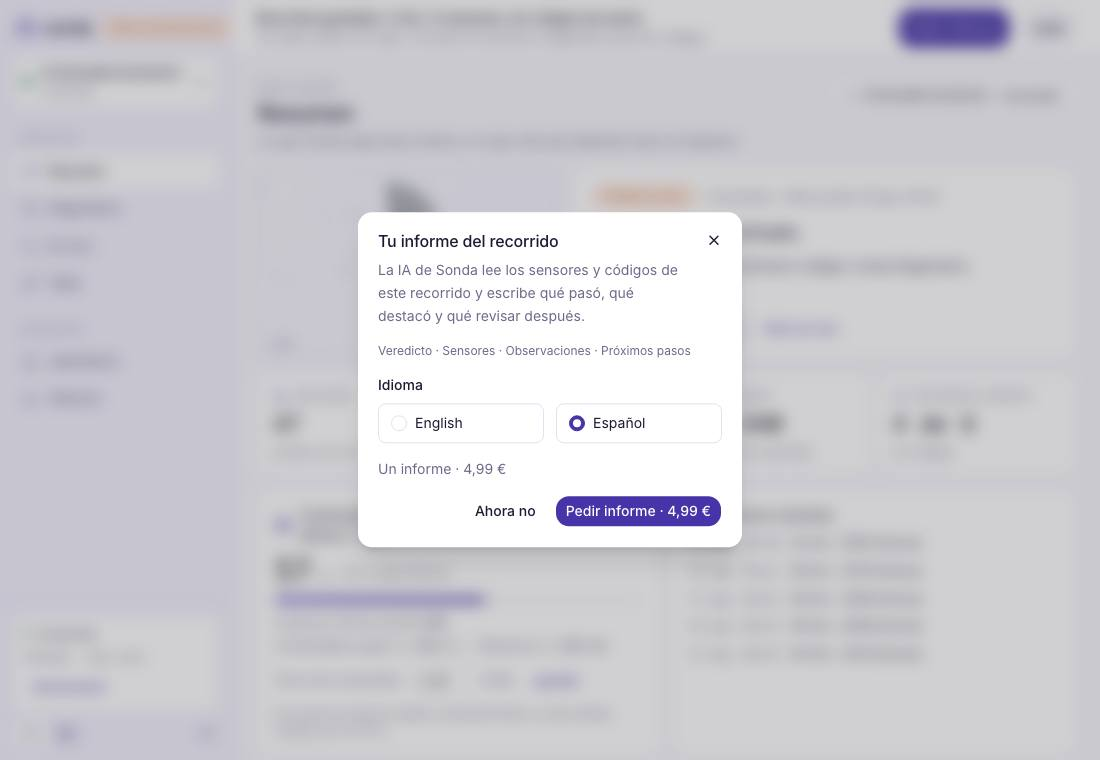
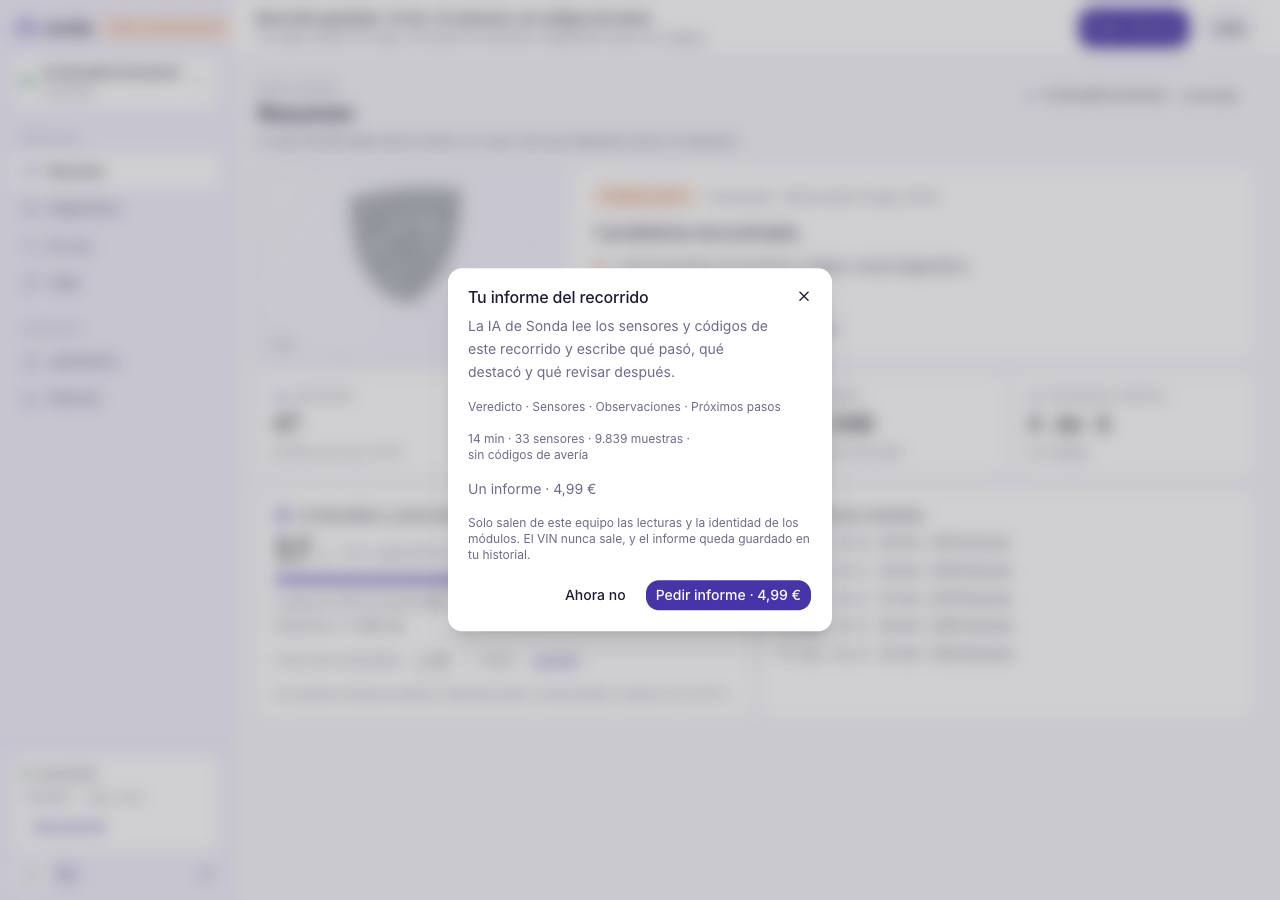
feat(desktop): report dialog follows the app language and shows what the report covers
Claude-Session: https://claude.ai/code/session_01HMcYpPkUbw46LDx5AgYEb3

diff --git a/apps/desktop/src/components/ReportAction.tsx b/apps/desktop/src/components/ReportAction.tsx
@@ -1,19 +1,20 @@
-import { useEffect, useRef, useState } from "react";
+import { Fragment, useEffect, useRef, useState } from "react";
 import { useQueryClient } from "@tanstack/react-query";
 import { openUrl } from "@tauri-apps/plugin-opener";
 import type { GenerateReportInput, ReportRow } from "@scainner/core";
 import { Button } from "@/components/ui/button";
 import { Dialog, DialogContent, DialogDescription, DialogHeader, DialogTitle } from "@/components/ui/dialog";
-import { RadioGroup, RadioGroupItem } from "@/components/ui/radio-group";
 import { useSession } from "@/features/account/useSession";
 import { billingRun, usePricing } from "@/features/reports/queries";
-import { useLocale, useT, type Locale } from "@/i18n";
-import { formatPrice, reportButtonState, reportOfferKeys } from "@/lib/reports";
+import { useLocale, useT } from "@/i18n";
+import { formatPrice, reportButtonState, reportFactsParts, reportOfferKeys } from "@/lib/reports";
 import { MOCK_MODE } from "@/lib/tauri";
 import { toast } from "@/components/toast";
 import { ReportView } from "@/views/reports/ReportView";
 
-type ReportSubject = { kind: "ride"; ride_id: string } | { kind: "code"; scan_event_id?: string; dtc_code: string };
+type ReportSubject =
+  | { kind: "ride"; ride_id: string; minutes: number; sensor_count: number; sample_count: number; dtc_codes_appeared: number }
+  | { kind: "code"; scan_event_id?: string; dtc_code: string };
 
 export function ReportAction({ input }: { input: ReportSubject }) {
   const { locale } = useLocale();
@@ -24,12 +25,10 @@ export function ReportAction({ input }: { input: ReportSubject }) {
   const previewSignedOut = MOCK_MODE && new URLSearchParams(window.location.search).get("report-state") === "signed-out";
   const signedIn = !previewSignedOut && typeof session === "string";
   const [open, setOpen] = useState(false);
-  const [language, setLanguage] = useState<Locale>(locale);
   const [waiting, setWaiting] = useState(false);
   const [generating, setGenerating] = useState(false);
   const [phase, setPhase] = useState(0);
   const [report, setReport] = useState<ReportRow | null>(null);
-  const targetLocale = useRef<Locale>(locale);
   const startingEntitlement = useRef(0);
   const pricing = usePricing(waiting ? 1000 : false);
   const balance = pricing.data?.account?.balance ?? 0;
@@ -38,10 +37,9 @@ export function ReportAction({ input }: { input: ReportSubject }) {
   const entitlement = balance + offer.planLeft;
   const state = reportButtonState({ signedIn, balance: entitlement, waiting, generating, done: report != null });
   const price = formatPrice(pricing.data?.catalog.single, locale);
-
-  useEffect(() => {
-    if (!open) setLanguage(locale);
-  }, [locale, open]);
+  const facts = input.kind === "ride"
+    ? reportFactsParts({ kind: "ride", minutes: input.minutes, sensors: input.sensor_count, samples: input.sample_count, codes: input.dtc_codes_appeared }, locale)
+    : reportFactsParts({ kind: "code", code: input.dtc_code, module: t.diagnose.confirmClear.module }, locale);
 
   useEffect(() => {
     if (!generating) return;
@@ -54,15 +52,18 @@ export function ReportAction({ input }: { input: ReportSubject }) {
       setWaiting(false);
       setOpen(false);
       toast.success(copy.bought);
-      void generate(targetLocale.current);
+      void generate();
     }
   }, [copy.bought, entitlement, waiting]);
 
-  const generate = async (reportLocale: Locale) => {
+  const generate = async () => {
     setGenerating(true);
     setPhase(0);
     try {
-      const result = await billingRun((billing) => billing.generateReport({ ...input, locale: reportLocale } as GenerateReportInput));
+      const subject: GenerateReportInput = input.kind === "ride"
+        ? { kind: "ride", ride_id: input.ride_id, locale }
+        : { kind: "code", scan_event_id: input.scan_event_id, dtc_code: input.dtc_code, locale };
+      const result = await billingRun((billing) => billing.generateReport(subject));
       const row = await billingRun((billing) => billing.getReport(result.report_id));
       setReport(row);
       toast.success(copy.complete);
@@ -76,7 +77,6 @@ export function ReportAction({ input }: { input: ReportSubject }) {
   };
 
   const confirm = async () => {
-    targetLocale.current = language;
     if (!signedIn) {
       setOpen(false);
       toast.info(copy.signInToast);
@@ -84,7 +84,7 @@ export function ReportAction({ input }: { input: ReportSubject }) {
     }
     if (entitlement > 0) {
       setOpen(false);
-      await generate(language);
+      await generate();
       return;
     }
     try {
@@ -119,21 +119,23 @@ export function ReportAction({ input }: { input: ReportSubject }) {
             <DialogDescription>{input.kind === "ride" ? copy.rideDescription : copy.codeDescription}</DialogDescription>
           </DialogHeader>
           <p className="text-xs text-muted-foreground">{copy.structure}</p>
-          <fieldset className="space-y-2" disabled={waiting}>
-            <legend className="text-sm font-medium">{copy.language}</legend>
-            <RadioGroup value={language} onValueChange={(value) => setLanguage(value as Locale)} className="grid grid-cols-2 gap-3">
-              <label className="flex min-h-10 cursor-pointer items-center gap-2 rounded-md border border-input px-3 text-sm"><RadioGroupItem value="en" />{copy.english}</label>
-              <label className="flex min-h-10 cursor-pointer items-center gap-2 rounded-md border border-input px-3 text-sm"><RadioGroupItem value="es" />{copy.spanish}</label>
-            </RadioGroup>
-          </fieldset>
+          <p className="text-xs text-muted-foreground">
+            {facts.map((part, index) => (
+              <Fragment key={part}>
+                {index > 0 && <>&nbsp;· </>}
+                <span className="whitespace-nowrap">{part}</span>
+              </Fragment>
+            ))}
+          </p>
           <p className="text-sm text-muted-foreground" aria-live="polite">{waiting ? copy.waiting : costLine}</p>
+          <p className="text-xs text-muted-foreground">{copy.privacy}</p>
           <div className="flex flex-col-reverse gap-2 sm:flex-row sm:justify-end">
             <Button variant="ghost" disabled={waiting} onClick={() => setOpen(false)}>{copy.notNow}</Button>
             <Button disabled={waiting || pricing.isPending} aria-busy={waiting || undefined} onClick={() => void confirm()}>{primaryLabel}</Button>
           </div>
         </DialogContent>
       </Dialog>
-      {report && <ReportView report={report} onClose={() => setReport(null)} onRegenerate={() => { setReport(null); setLanguage(report.locale === "en" ? "es" : "en"); setOpen(true); }} />}
+      {report && <ReportView report={report} onClose={() => setReport(null)} />}
     </>
   );
 }

diff --git a/apps/desktop/src/views/reports/ReportView.tsx b/apps/desktop/src/views/reports/ReportView.tsx
@@ -1,14 +1,14 @@
-import { ArrowLeft, Printer, Sparkles } from "lucide-react";
+import { ArrowLeft, Printer } from "lucide-react";
 import type { ReportRow } from "@scainner/core";
 import { Button } from "@/components/ui/button";
 import { reportSections } from "@/lib/reports";
 
 const COPY = {
-  en: { back: "Back", ride: "Ride report", code: "Code report", export: "Export PDF", readings: "Readings", channels: "Channels", events: "Events", language: "Generate in Spanish", languageNote: "A second language uses another report credit." },
-  es: { back: "Volver", ride: "Informe del trayecto", code: "Informe del código", export: "Exportar PDF", readings: "Lecturas", channels: "Canales", events: "Eventos", language: "Generar en inglés", languageNote: "Un segundo idioma usa otro crédito de informe." },
+  en: { back: "Back", ride: "Ride report", code: "Code report", export: "Export PDF", readings: "Readings", channels: "Channels", events: "Events" },
+  es: { back: "Volver", ride: "Informe del trayecto", code: "Informe del código", export: "Exportar PDF", readings: "Lecturas", channels: "Canales", events: "Eventos" },
 } as const;
 
-export function ReportView({ report, onClose, onRegenerate }: { report: ReportRow; onClose: () => void; onRegenerate?: () => void }) {
+export function ReportView({ report, onClose }: { report: ReportRow; onClose: () => void }) {
   const copy = COPY[report.locale];
   const summary = report.summary;
   return (
@@ -16,7 +16,6 @@ export function ReportView({ report, onClose, onRegenerate }: { report: ReportRo
       <div className="sticky top-0 z-10 flex items-center gap-2 border-b border-divider bg-surface/95 px-6 py-3 backdrop-blur print:hidden">
         <Button variant="ghost" onClick={onClose}><ArrowLeft aria-hidden="true" />{copy.back}</Button>
         <span className="flex-1" />
-        {onRegenerate && <Button variant="outline" onClick={onRegenerate}><Sparkles aria-hidden="true" />{copy.language}</Button>}
         <Button onClick={() => window.print()}><Printer aria-hidden="true" />{copy.export}</Button>
       </div>
       <article className="mx-auto max-w-4xl px-6 py-10 print:max-w-none print:p-0">
@@ -38,7 +37,6 @@ export function ReportView({ report, onClose, onRegenerate }: { report: ReportRo
             </section>
           ))}
         </div>
-        {onRegenerate && <p className="mt-10 border-t border-divider pt-5 text-sm text-neutral-500 print:hidden">{copy.languageNote}</p>}
       </article>
     </section>
   );

diff --git a/apps/desktop/src/lib/reports.test.ts b/apps/desktop/src/lib/reports.test.ts
@@ -1,5 +1,5 @@
 import { describe, expect, it } from "vitest";
-import { formatPrice, reportButtonState, reportOfferKeys } from "./reports";
+import { formatPrice, reportButtonState, reportFacts, reportOfferKeys } from "./reports";
 
 describe("report button state", () => {
   it.each([
@@ -19,6 +19,27 @@ describe("report offer copy keys", () => {
     [{ signedIn: true, balance: 3, subscription: { monthly_allowance: 5, allowance_used: 2 } }, { cost: "plan", primary: "covered", planLeft: 3 }],
     [{ signedIn: false, balance: 0, subscription: null }, { cost: "price", primary: "signedOut", planLeft: 0 }],
   ] as const)("maps %o", (input, expected) => expect(reportOfferKeys(input)).toEqual(expected));
+});
+
+describe("report facts line", () => {
+  const ride = { kind: "ride", minutes: 14, sensors: 33, samples: 9839 } as const;
+
+  it("lists what a ride report covers", () => {
+    expect(reportFacts({ ...ride, codes: 0 }, "en")).toBe("14 min · 33 sensors · 9,839 samples · no fault codes");
+    expect(reportFacts({ ...ride, codes: 0 }, "es")).toBe("14 min · 33 sensores · 9.839 muestras · sin códigos de avería");
+  });
+
+  it("counts fault codes", () => {
+    expect(reportFacts({ ...ride, codes: 1 }, "en")).toBe("14 min · 33 sensors · 9,839 samples · 1 fault code");
+    expect(reportFacts({ ...ride, codes: 2 }, "en")).toBe("14 min · 33 sensors · 9,839 samples · 2 fault codes");
+    expect(reportFacts({ ...ride, codes: 1 }, "es")).toBe("14 min · 33 sensores · 9.839 muestras · 1 código de avería");
+    expect(reportFacts({ ...ride, codes: 2 }, "es")).toBe("14 min · 33 sensores · 9.839 muestras · 2 códigos de avería");
+  });
+
+  it("names the code and its module", () => {
+    expect(reportFacts({ kind: "code", code: "P0301", module: "Engine (OBD)" }, "en")).toBe("P0301 · Engine (OBD)");
+    expect(reportFacts({ kind: "code", code: "P0301", module: "Motor (OBD)" }, "es")).toBe("P0301 · Motor (OBD)");
+  });
 });
 
 describe("report price formatting", () => {

diff --git a/apps/desktop/src/lib/reports.ts b/apps/desktop/src/lib/reports.ts
@@ -35,6 +35,41 @@ export function formatPrice(price: PriceItem | null | undefined, locale: "en" | 
   return new Intl.NumberFormat(locale, { style: "currency", currency: price.currency.toUpperCase() }).format(price.unit_amount / 100);
 }
 
+export type ReportFacts =
+  | { kind: "ride"; minutes: number; sensors: number; samples: number; codes: number }
+  | { kind: "code"; code: string; module: string };
+
+const FACTS_COPY = {
+  en: {
+    minutes: "min",
+    sensors: "sensors",
+    samples: "samples",
+    codes: (count: string, value: number) => (value === 0 ? "no fault codes" : value === 1 ? "1 fault code" : `${count} fault codes`),
+  },
+  es: {
+    minutes: "min",
+    sensors: "sensores",
+    samples: "muestras",
+    codes: (count: string, value: number) => (value === 0 ? "sin códigos de avería" : value === 1 ? "1 código de avería" : `${count} códigos de avería`),
+  },
+} as const;
+
+export function reportFactsParts(facts: ReportFacts, locale: "en" | "es"): string[] {
+  if (facts.kind === "code") return [facts.code, facts.module];
+  const copy = FACTS_COPY[locale];
+  const number = (value: number) => new Intl.NumberFormat(locale, { useGrouping: true }).format(value);
+  return [
+    `${number(facts.minutes)} ${copy.minutes}`,
+    `${number(facts.sensors)} ${copy.sensors}`,
+    `${number(facts.samples)} ${copy.samples}`,
+    copy.codes(number(facts.codes), facts.codes),
+  ];
+}
+
+export function reportFacts(facts: ReportFacts, locale: "en" | "es"): string {
+  return reportFactsParts(facts, locale).join(" · ");
+}
+
 export function reportSections(markdown: string): Array<{ title: string; body: string }> {
   return markdown.split(/^# /gm).map((part) => part.trim()).filter(Boolean).map((part) => {
     const [title, ...body] = part.split("\n");

diff --git a/apps/desktop/src/components/RideBanner.tsx b/apps/desktop/src/components/RideBanner.tsx
@@ -38,8 +38,8 @@ export function RideBanner({ ride, completed, stopping, onStop, onDone }: {
   }, [ride?.id, ride?.started_at]);
 
   const transition = { duration: reduced ? 0 : 0.22 };
+  const minutes = completed ? Math.round(elapsedSeconds(completed.started_at, completed.ended_at) / 60) : 0;
   const firstLine = completed ? (() => {
-    const minutes = Math.round(elapsedSeconds(completed.started_at, completed.ended_at) / 60);
     const key = rideSummaryCopyKey(completed.dtc_codes_appeared);
     return key === "many"
       ? t.ride.saved.many(minutes, completed.sensor_count, completed.dtc_codes_appeared)
@@ -78,7 +78,7 @@ export function RideBanner({ ride, completed, stopping, onStop, onDone }: {
                   <AlertTitle>{firstLine}</AlertTitle>
                   <AlertDescription className="text-[12px]">{t.ride.location}</AlertDescription>
                 </div>
-                {completed ? <ReportAction input={{ kind: "ride", ride_id: completed.cloud_id }} /> : null}
+                {completed ? <ReportAction input={{ kind: "ride", ride_id: completed.cloud_id, minutes, sensor_count: completed.sensor_count, sample_count: completed.sample_count, dtc_codes_appeared: completed.dtc_codes_appeared }} /> : null}
                 <Button className="min-h-10" variant="outline" onClick={onDone}>{t.ride.done}</Button>
               </>
             )}

diff --git a/apps/desktop/src/lib/mock.ts b/apps/desktop/src/lib/mock.ts
@@ -806,7 +806,8 @@ export async function mockInvoke<T>(cmd: string, args?: Record<string, unknown>)
       if (!mockRide || mockRide.id !== Number(args?.id)) throw new Error("ride is not active");
       if (mockRideTimer != null) window.clearInterval(mockRideTimer);
       mockRideTimer = null;
-      const finished: Ride = { ...mockRide, ended_at: new Date().toISOString(), sensor_count: 12, dtc_events_count: 1, dtc_codes_appeared: previewQuery().get("mock_ride_dtc") === "1" ? 1 : 0, max_speed: 83, max_coolant: 91, min_voltage: 13.7 };
+      const endedAt = new Date();
+      const finished: Ride = { ...mockRide, started_at: new Date(endedAt.getTime() - 14 * 60_000).toISOString(), ended_at: endedAt.toISOString(), sample_count: 9839, sensor_count: 33, dtc_events_count: 1, dtc_codes_appeared: previewQuery().get("mock_ride_dtc") === "1" ? 1 : 0, max_speed: 83, max_coolant: 91, min_voltage: 13.7 };
       mockRideDone = [finished, ...mockRideDone];
       mockRide = null;
       connState = { ...connState, ride: null };

diff --git a/apps/desktop/src/i18n/es.ts b/apps/desktop/src/i18n/es.ts
@@ -21,9 +21,7 @@ export const es: Dictionary = {
     rideDescription: "La IA de Sonda lee los sensores y códigos de este recorrido y escribe qué pasó, qué destacó y qué revisar después.",
     codeDescription: "La IA de Sonda lee este código con el fotograma de congelación y los sensores de alrededor y escribe qué pasó, qué destacó y qué revisar después.",
     structure: "Veredicto · Sensores · Observaciones · Próximos pasos",
-    language: "Idioma",
-    english: "English",
-    spanish: "Español",
+    privacy: "Solo salen de este equipo las lecturas y la identidad de los módulos. El VIN nunca sale, y el informe queda guardado en tu historial.",
     cost: {
       price: (price) => `Un informe · ${price}`,
       credit: (balance) => `1 crédito, tienes ${balance}`,

diff --git a/apps/desktop/src/i18n/en.ts b/apps/desktop/src/i18n/en.ts
@@ -21,9 +21,7 @@ export const en: Dictionary = {
     rideDescription: "Sonda's AI reads this ride's sensors and fault codes and writes what happened, what stood out, and what to check next.",
     codeDescription: "Sonda's AI reads this code with the freeze frame and the sensors around it and writes what happened, what stood out, and what to check next.",
     structure: "Verdict · Sensors · Observations · Next steps",
-    language: "Language",
-    english: "English",
-    spanish: "Español",
+    privacy: "Only readings and module identities leave this device. The VIN never does, and the report is saved to your history.",
     cost: {
       price: (price) => `One report · ${price}`,
       credit: (balance) => `1 credit, you have ${balance}`,

diff --git a/apps/desktop/src/i18n/dictionary.ts b/apps/desktop/src/i18n/dictionary.ts
@@ -19,9 +19,7 @@ export type Dictionary = {
     rideDescription: string;
     codeDescription: string;
     structure: string;
-    language: string;
-    english: string;
-    spanish: string;
+    privacy: string;
     cost: {
       price: (price: string) => string;
       credit: (balance: number) => string;
